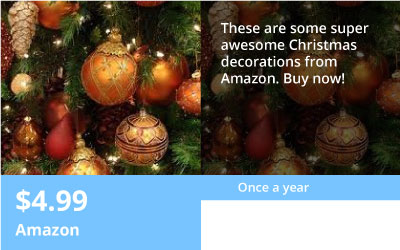
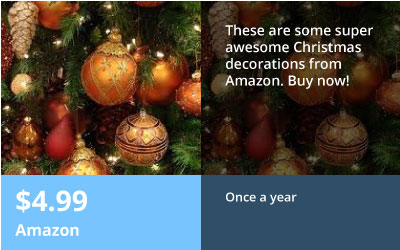
Milk kart and stuff

diff --git a/css/style.css b/css/style.css
@@ -65,6 +65,17 @@ html, body {
     background-size: 100%;
 }
 
+#milk-kart {
+    position: absolute;
+    width: 30px;
+    height: 30px;
+    top: 20px;
+    right: 20px;
+    margin: 0 auto;
+    background: url("../img/milk-kart.png");
+    background-size: 100%;
+}
+
 /* Form fields ------------------------------ */
 form {
     position: relative;
@@ -118,7 +129,6 @@ form {
     width: 200px;
     height: 250px;
     float: left;
-    background: red;
     margin: 0 53px 20px 0;
     overflow: hidden;
     border-radius: 14px;

diff --git a/index.html b/index.html
@@ -21,7 +21,7 @@
 	<body>
 		<div id="wrapper">
 			<div id="logo"></div>
-
+			<div id="milk-kart"></div>
 			<form class="af-form" id="af-form" novalidate>			  
 			    <input id="search-box" type="text" name="search" placeholder="What are you looking for?" required>
 
@@ -41,6 +41,7 @@
 			<ul id="featured-list">
 				<h1>Featured</h1>
 				<li class="items">
+					<h1 class="duration">Once a year</h1>
 					<img src="img/item1.jpg" />
 				</li>
 				<li class="items">
